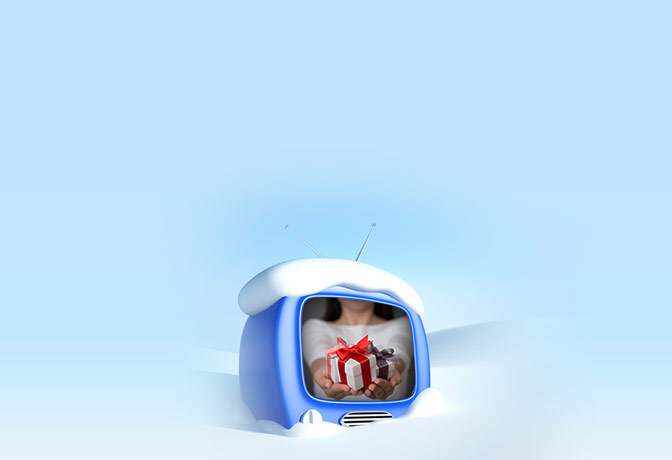
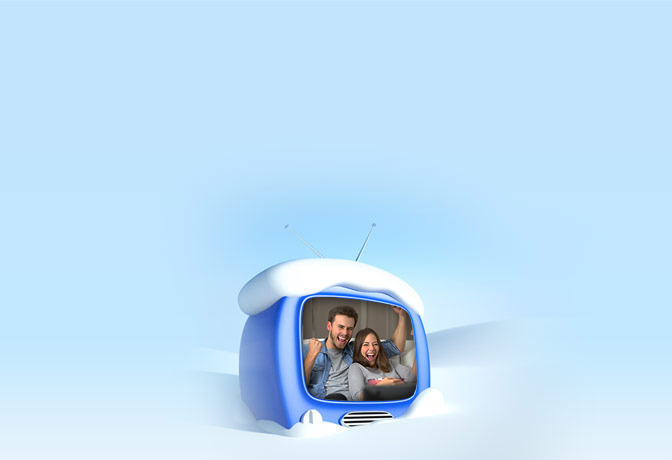
changement des images de la promo tv

Changed region(s): [[0.4375, 0.6391, 0.625, 0.8826]]

diff --git a/public_html/styles/css/promos/promos.css b/public_html/styles/css/promos/promos.css
@@ -103,8 +103,20 @@
     background-size: 1056px auto; }
     #promo-fibre:not(.not-accueil) {
       height: 290px !important; }
+      #promo-fibre:not(.not-accueil) .section-title {
+        margin-top: 0; }
     #promo-fibre.not-accueil {
-      height: 200px !important; } }
+      height: 200px !important; }
+
+  #promo-noel {
+    background-size: 1056px auto; }
+    #promo-noel:not(.not-accueil) {
+      height: 430px !important; }
+    #promo-noel.not-accueil {
+      height: 290px !important; }
+      #promo-noel.not-accueil .section-title {
+        margin-top: -10px;
+        margin-bottom: 0; } }
 @media screen and (min-width: 1056px) {
   #promo-fibre:not(.not-accueil) {
     background-image: url("../../../images/promos/Accueil/Offre_Fibre_JAN_1302x370px.jpg"); }
@@ -129,6 +141,9 @@
       line-height: 35px; }
       #promo-noel .section-description strong, #promo-fibre .section-description strong {
         display: block; }
+
+  #promo-fibre:not(.not-accueil) {
+    padding-top: 60px; }
 
   .promo-info {
     margin-bottom: 0px; }

diff --git a/public_html/styles/scss/promos/_state.scss b/public_html/styles/scss/promos/_state.scss
@@ -36,9 +36,25 @@
         background-size: 1056px auto;
         &:not(.not-accueil){
             height: 290px !important;
+            .section-title{
+                margin-top: 0;
+            }
         }
         &.not-accueil{
             height: 200px !important;
+        }
+    }
+    #promo-noel{
+        background-size: 1056px auto;
+        &:not(.not-accueil){
+            height: 430px !important;
+        }
+        &.not-accueil{
+            height: 290px !important;
+            .section-title{
+                margin-top: -10px;
+                margin-bottom: 0;
+            }
         }
     }
 }
@@ -76,6 +92,11 @@
             strong{
                 display: block;
             }
+        }
+    }
+    #promo-fibre{
+        &:not(.not-accueil){
+            padding-top: 60px;
         }
     }
     .promo-info{

diff --git a/public_html/styles/css/main.css b/public_html/styles/css/main.css
@@ -3407,7 +3407,8 @@ svg:not(:root) {
   font-size: 30px;
   line-height: 30px;
   margin: 25px 0;
-  text-transform: uppercase; }
+  text-transform: uppercase;
+  }
   .section-title strong {
     display: block; }
 
@@ -6721,7 +6722,8 @@ h2.contact-title {
   .sub-menu {
     height: 65px;
     line-height: 65px;
-    font-size: 16px; }
+    font-size: 16px;
+    }
     .sub-menu li {
       margin-right: 65px; }
 
